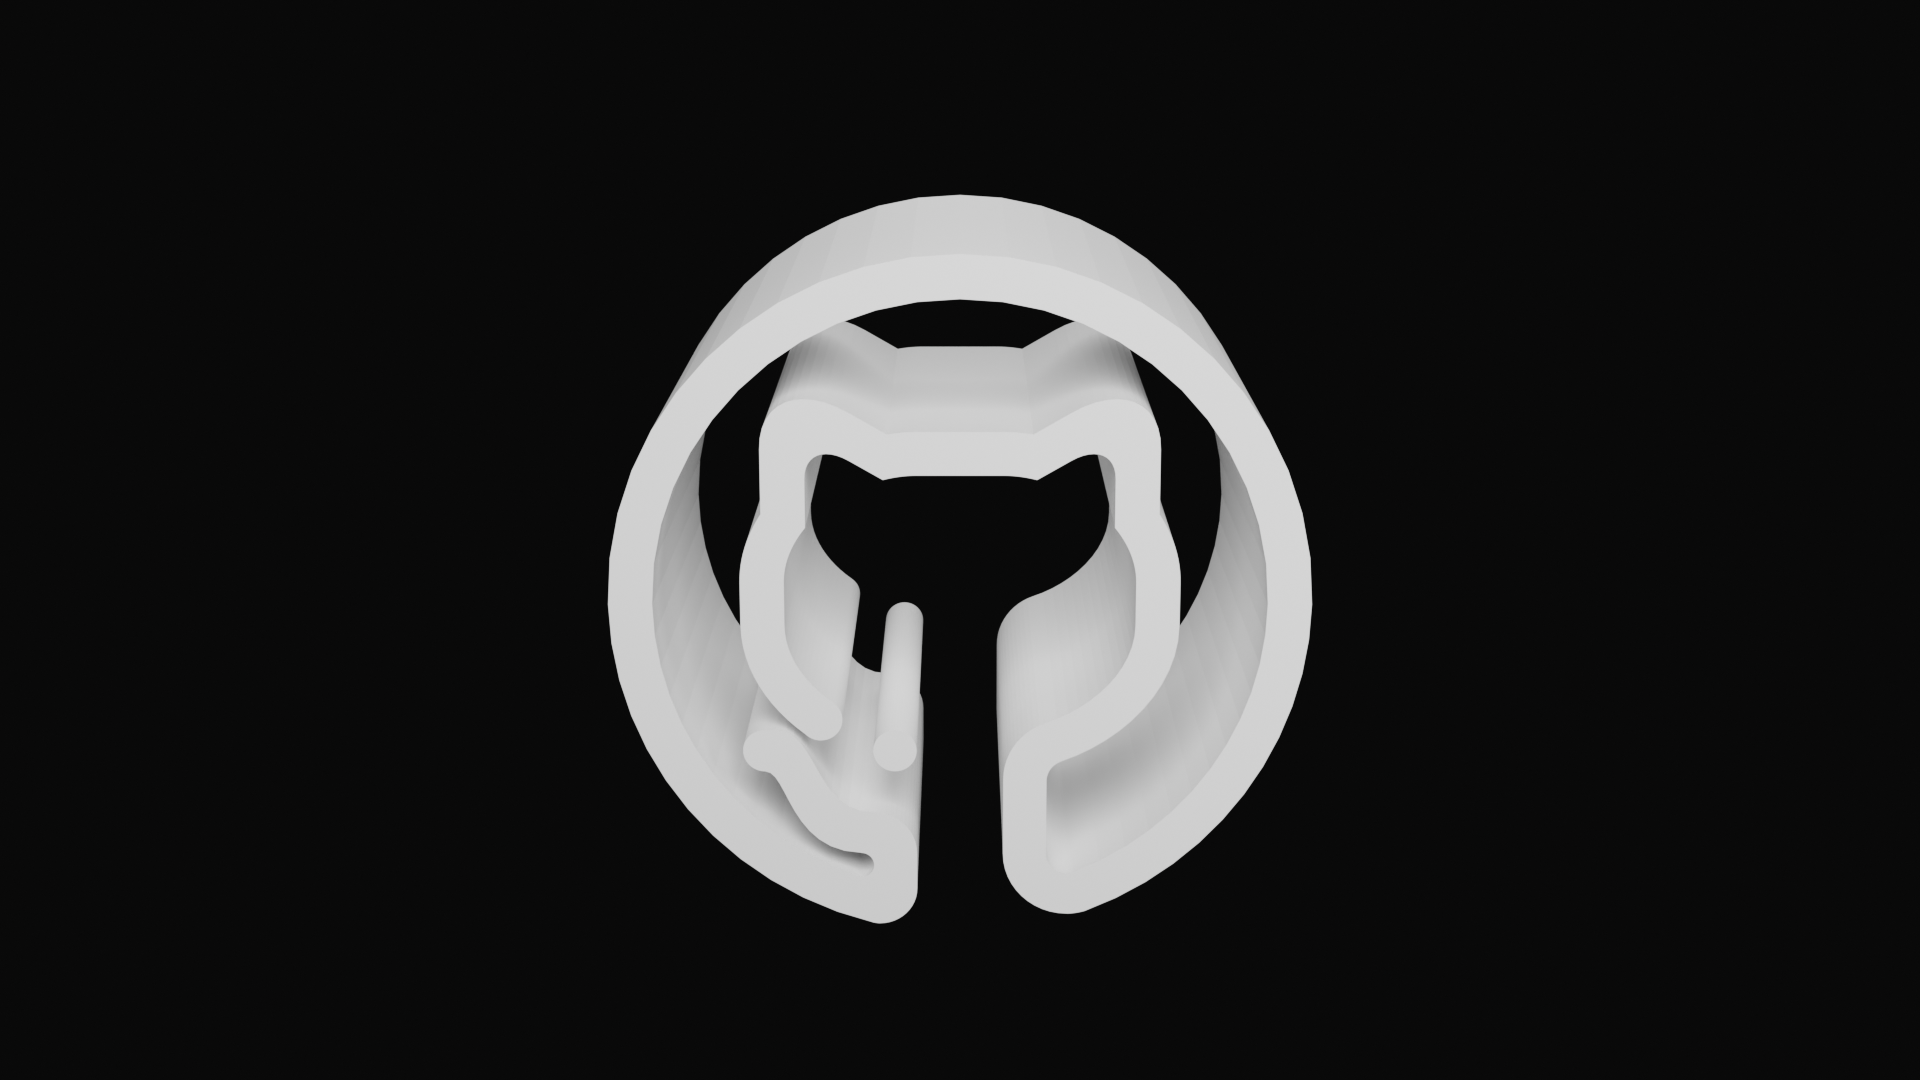
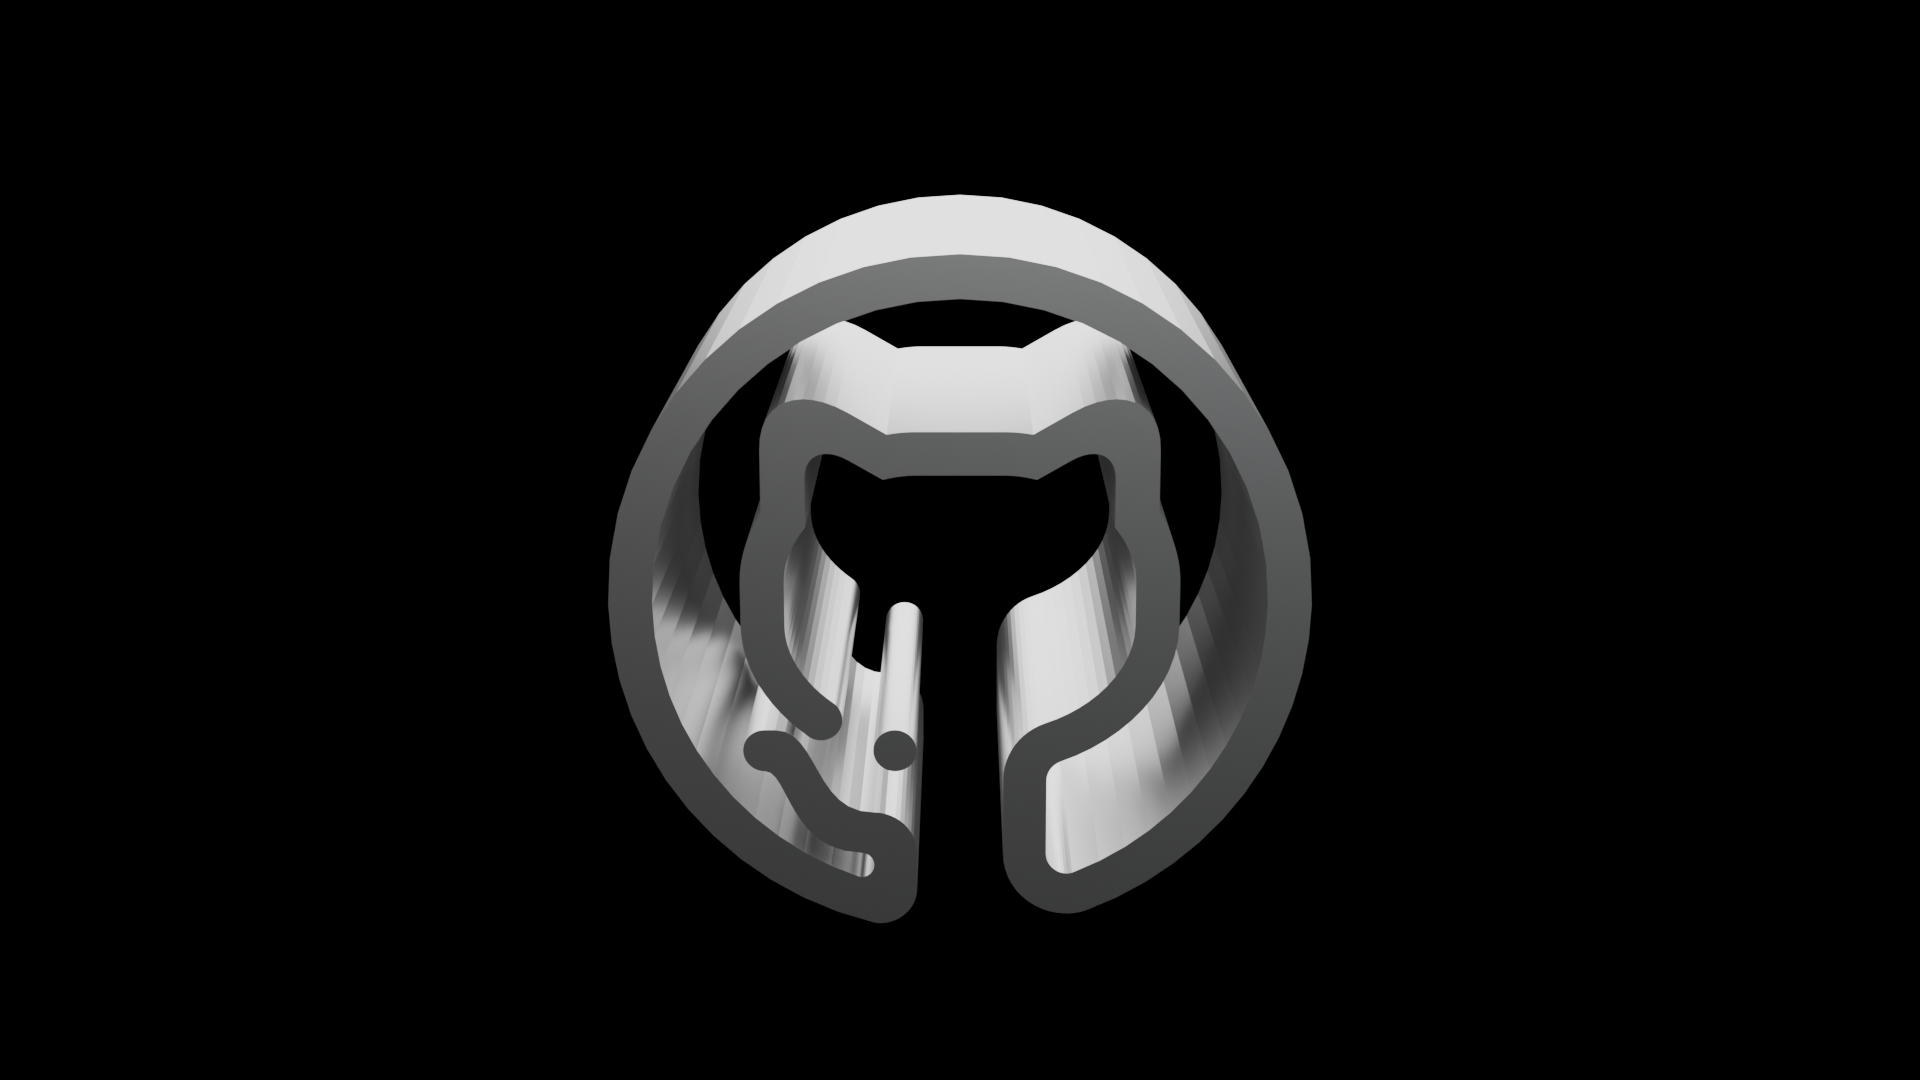
fixed changes

Changed region(s): [[0.3125, 0.1833, 0.6875, 0.8556]]

diff --git a/render_logo.py b/render_logo.py
@@ -13,10 +13,8 @@ def parse_args():
     texture_type = argv[2].lower()
     extrude_depth = float(argv[3])
     bevel_depth = float(argv[4])
-    hdri_path = argv[5] if len(argv) > 5 else None
     return svg_path, output_dir, texture_type, extrude_depth, bevel_depth
 
-# Clear scene
 bpy.ops.object.select_all(action='SELECT')
 bpy.ops.object.delete(use_global=False)
 
@@ -48,12 +46,10 @@ def convert_and_extrude(obj, extrude_depth, bevel_depth):
         print(f"Converting {obj.name} to mesh...")
         bpy.ops.object.convert(target='MESH')
 
-    # Add Solidify Modifier
     solidify_mod = obj.modifiers.new(name="Solidify", type='SOLIDIFY')
     solidify_mod.thickness = extrude_depth
-    solidify_mod.offset = 0  # Center the extrusion
+    solidify_mod.offset = 0  
 
-    # Add Bevel Modifier for smooth edges
     bevel_mod = obj.modifiers.new(name="Bevel", type='BEVEL')
     bevel_mod.width = bevel_depth
     bevel_mod.segments = 3
@@ -67,13 +63,12 @@ def create_materials(texture_type, num_objects):
         "glossy": (0.1, 0.0), 
         "matte": (0.8, 0.0),
         "metallic": (0.3, 1.0),
-        "chrome": (0.05, 1.0),
+        "chrome": (0.1, 1.0),  
         "golden": (0.2, 1.0),
     }
     
     base_roughness, base_metallic = base_presets.get(texture_type, (0.5, 0.0))
     
-    # Color variations for multiple objects
     if texture_type == "golden":
         colors = [
             (1.000, 0.766, 0.336, 1.0),  # Rich gold
@@ -81,6 +76,14 @@ def create_materials(texture_type, num_objects):
             (0.830, 0.686, 0.215, 1.0),
             (1.000, 0.598, 0.000, 1.0),
             (0.996, 0.882, 0.561, 1.0),
+        ]
+    elif texture_type == "chrome":
+        colors = [
+            (0.95, 0.95, 0.95, 1.0),  # Pure chrome white
+            (0.98, 0.98, 0.98, 1.0),  # Bright chrome
+            (0.92, 0.92, 0.92, 1.0),  # Slightly darker chrome
+            (0.96, 0.96, 0.98, 1.0),  # Cool chrome
+            (0.97, 0.97, 0.95, 1.0),  # Warm chrome
         ]
     else:
         colors = [
@@ -102,7 +105,10 @@ def create_materials(texture_type, num_objects):
         color_index = i % len(colors)
         principled.inputs["Base Color"].default_value = colors[color_index]
         
-        if num_objects > 1:
+        # For chrome, use moderate roughness for liquid flow effect
+        if texture_type == "chrome":
+            principled.inputs["Roughness"].default_value = 0.08 + (i * 0.02)  # Variation for flow effect
+        elif num_objects > 1:
             roughness_variation = (i * 0.1) % 0.3
             principled.inputs["Roughness"].default_value = min(1.0, base_roughness + roughness_variation)
         
@@ -195,7 +201,6 @@ def setup_lighting(texture_type):
     warm_color = (1.0, 0.9, 0.8)
     cool_color = (0.8, 0.9, 1.0)
 
-    # Clear existing lights
     for obj in bpy.data.objects:
         if obj.type == 'LIGHT':
             bpy.data.objects.remove(obj, do_unlink=True)
@@ -206,22 +211,27 @@ def setup_lighting(texture_type):
         rim_light  = add_area_light((0, 6, 3), (radians(-60), 0, 0), 800, 3, color=warm_color)
 
     elif texture_type in ["chrome", "metallic"]:
-        key_light = add_area_light((0, -6, 6), (radians(60), 0, 0), 2500, 6, color=(1.0, 1.0, 1.0))
-        rim_light = add_area_light((0, 6, 5), (radians(-60), 0, 0), 1500, 5, color=(1.0, 1.0, 1.0))
-        fill_light = add_area_light((-5, -3, 2), (radians(40), 0, radians(30)), 800, 4, color=(0.95, 0.95, 1.0))
-        reflector_light = add_area_light((3, 0, 3), (radians(90), 0, radians(90)), 1200, 6, color=(1.0, 1.0, 1.0))
+        key_light = add_area_light((0, -10, 8), (radians(35), 0, 0), 2500, 15, color=(1.0, 1.0, 1.0))
+        fill_light = add_area_light((8, -6, 6), (radians(25), 0, radians(-45)), 1800, 12, color=(0.9, 0.95, 1.0))
+        rim_light = add_area_light((0, 10, 4), (radians(-30), 0, 0), 1500, 12, color=(1.0, 1.0, 1.0))
+        side_light = add_area_light((-8, 0, 5), (radians(45), 0, radians(90)), 1200, 10, color=(0.95, 0.95, 1.0))
 
     else:
         key_light  = add_area_light((0, -6, 4), (radians(60), 0, 0), 1000, 4)
         fill_light = add_area_light((4, -4, 2), (radians(45), 0, radians(-30)), 400, 3)
         rim_light  = add_area_light((0, 6, 3), (radians(-60), 0, 0), 600, 3)
 
-    # Ambient light
     bpy.context.scene.world.use_nodes = True
     world_nodes = bpy.context.scene.world.node_tree.nodes
     bg_node = world_nodes.get('Background')
+
     if bg_node:
-        bg_strength = 0.2 if texture_type in ["gold", "chrome", "metallic"] else 0.1
+        if texture_type in ["chrome", "metallic"]:
+            bg_strength = 0.3 
+        elif texture_type in ["gold", "golden"]:
+            bg_strength = 0.2
+        else:
+            bg_strength = 0.1
         bg_node.inputs[1].default_value = bg_strength
 
 
@@ -284,7 +294,7 @@ print("Configuring render...")
 configure_render(output_dir)
 
 print("Starting render...")
-print(f"Rendering {bpy.context.scene.frame_end} frames...")
+# print(f"Rendering {bpy.context.scene.frame_end} frames...")
 bpy.ops.render.render(animation=True)
 
 print("Rendering Complete!")
@@ -295,4 +305,4 @@ print(f"Materials created: {len(materials)}")
 print("Rendering Complete!")
 print(f"Output saved to: {bpy.context.scene.render.filepath}")
 print(f"Total objects processed: {len(imported_objs)}")
-print(f"Materials created: {len(materials)}")   
+print(f"Materials created: {len(materials)}")
